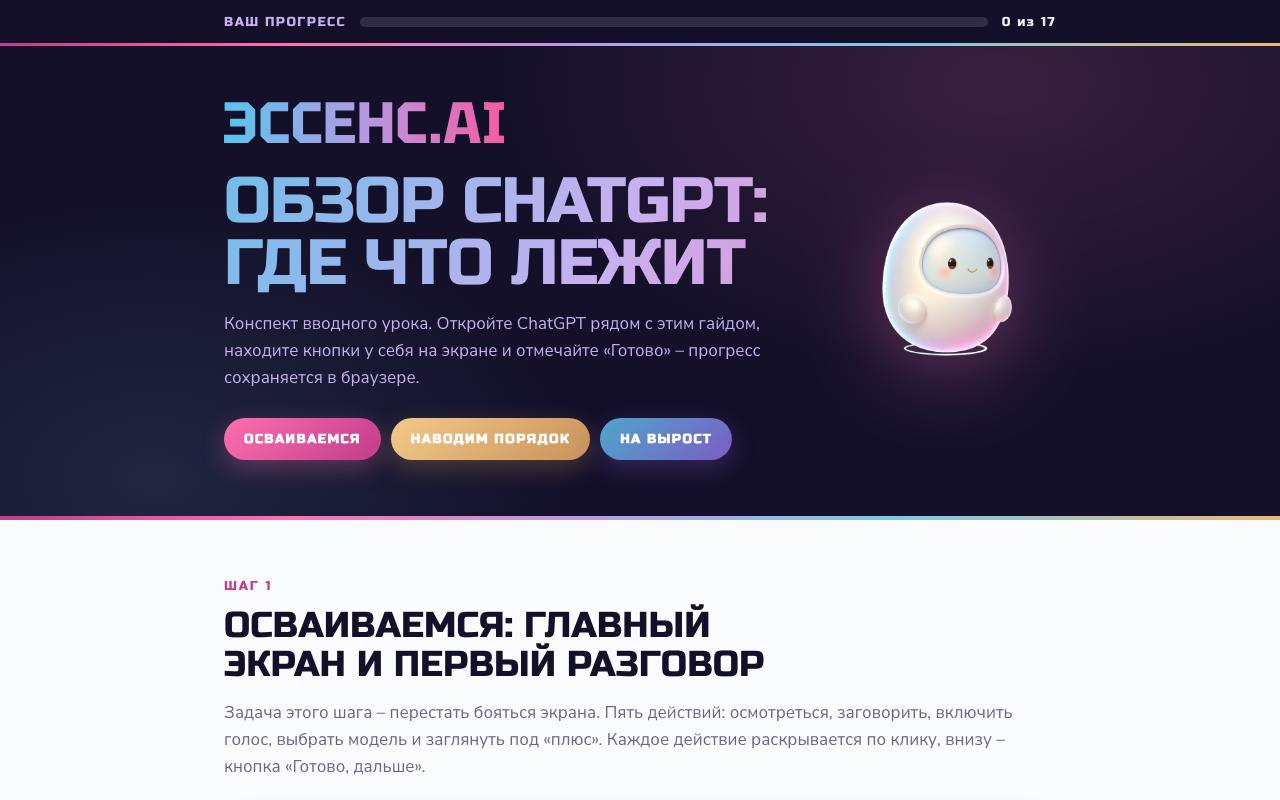
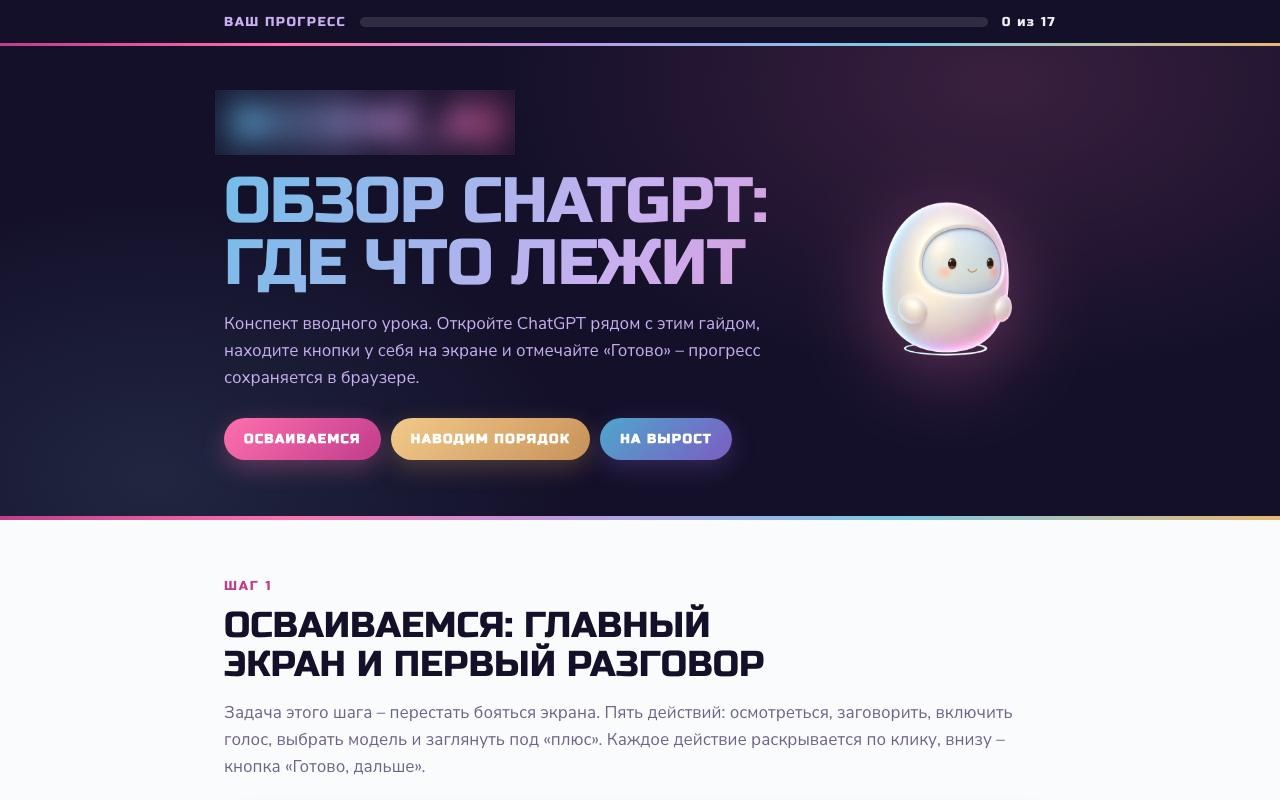
Бонус «Интерактивные материалы»: клиентские примеры с размытыми именами, FitStars первыми (08.10)

Changed region(s): [[0.1562, 0.0938, 0.4062, 0.2188]]

diff --git a/modul3/bonus-interaktiv/index.html b/modul3/bonus-interaktiv/index.html
@@ -265,9 +265,11 @@ button{font:inherit;color:inherit;background:none;border:0;cursor:pointer}
   </ul>
 
   <p class="plate">Как это выглядит у меня</p>
-  <div class="shots">
+  <div class="shots two">
     <figure class="shot"><img src="assets/konspekt.jpg" alt="Конспект урока «Свой голос» курса «Нейро-архитектор»: заголовок урока и блок «Главное из урока» с пунктами по номерам" loading="lazy">
       <figcaption><b>Конспект урока «Свой голос», курс «Нейро-архитектор» (FitStars).</b> Главное из урока, блоки по темам, промпты с кнопкой «Скопировать» и кнопка в инструкцию к практике. <a href="https://aiforlife.ru/ii-course/modul2/urok2/" target="_blank" rel="noopener">Открыть пример ↗</a></figcaption></figure>
+    <figure class="shot"><img src="assets/konspekt-ki.jpg" alt="Конспект дня клиентского курса: тёмная страница с вкладками «Теория», «Практика», «Самоанализ»" loading="lazy">
+      <figcaption><b>Конспект дня клиентского курса по языку тела.</b> Название скрыто. Материал дня разложен по вкладкам «Теория / Практика / Самоанализ», а в самоанализе есть поля для ответов и кнопка «Скопировать ответы».</figcaption></figure>
   </div>
 
   <p class="plate">Что внутри хорошего конспекта</p>
@@ -332,6 +334,8 @@ button{font:inherit;color:inherit;background:none;border:0;cursor:pointer}
   <div class="shots two">
     <figure class="shot"><img src="assets/gaid-registraciya.jpg" alt="Гайд «Старт работы в ChatGPT» для участников курса FitStars: регистрация, оплата, установка" loading="lazy">
       <figcaption><b>Гайд «Старт работы в ChatGPT».</b> Проект FitStars: регистрация, оплата и установка на все устройства. Открываете действие, выполняете его и отмечаете «Готово» – прогресс сохраняется в браузере. <a href="https://aiforlife.ru/praktikum-ii/registraciya/" target="_blank" rel="noopener">Открыть пример ↗</a></figcaption></figure>
+    <figure class="shot"><img src="assets/gaid.jpg" alt="Гайд «Обзор ChatGPT: где что лежит» для клиентской школы: шкала прогресса и кнопки разделов" loading="lazy">
+      <figcaption><b>Гайд «Обзор ChatGPT: где что лежит».</b> Клиентский проект, название скрыто. Человек открывает ChatGPT рядом с гайдом, проходит шаги и нажимает «Готово».</figcaption></figure>
     <figure class="shot"><img src="assets/gaid-metodolog.jpg" alt="Гайд «Как установить ИИ-методолога за 10 минут»: заголовок и выбор из 3 платформ" loading="lazy">
       <figcaption><b>Как установить ИИ-методолога за 10 минут.</b> 3 платформы на выбор – Claude, ChatGPT, Gemini – и шаги по номерам под каждую.</figcaption></figure>
   </div>
@@ -527,6 +531,12 @@ button{font:inherit;color:inherit;background:none;border:0;cursor:pointer}
     <li>Мама-блогер выпускает первую электронную книгу из своих лучших постов, без верстальщика и типографии.</li>
   </ul>
 
+  <p class="plate">Как это выглядит у меня</p>
+  <div class="shots">
+    <figure class="shot"><img src="assets/kniga.jpg" alt="Интерактивная книга-листалка: обложка, кнопка «Оглавление», номер страницы 1 из 389" loading="lazy">
+      <figcaption><b>Книга «Управляемо &amp; предсказуемо».</b> Клиентский проект, имя автора скрыто. Листалка на 389 страниц: её листают как бумажную, есть оглавление и закладка, а в практиках – поля для ответов и рабочий лист к ним.</figcaption></figure>
+  </div>
+
   <p class="plate">Что внутри хорошей книги</p>
   <ol class="inside">
     <li><b>Оглавление.</b> Части и главы с переходом к любой одним нажатием; закрытые части – с замком, если вы открываете их постепенно.</li>
@@ -590,6 +600,8 @@ button{font:inherit;color:inherit;background:none;border:0;cursor:pointer}
   <div class="shots">
     <figure class="shot"><img src="assets/slaidy-praktikum.jpg" alt="Слайды практикума FitStars «ИИ-помощник в вашем деле»" loading="lazy">
       <figcaption><b>Слайды практикума «ИИ-помощник в вашем деле».</b> Проект FitStars: 64 слайда по ссылке – листаются стрелками, открываются на полный экран, внизу счётчик слайдов. <a href="https://aiforlife.ru/praktikum-ii/slides/" target="_blank" rel="noopener">Открыть пример ↗</a></figcaption></figure>
+    <figure class="shot"><img src="assets/slaidy.jpg" alt="Титульный слайд «Практикум по вайбкодингу» с колонкой миниатюр слайдов слева" loading="lazy">
+      <figcaption><b>Слайды воркшопа «Практикум по вайбкодингу».</b> Клиентский проект, название скрыто. Слева – миниатюры всех слайдов, слайды открываются на полный экран.</figcaption></figure>
   </div>
 
   <p class="plate">Что внутри хорошей презентации</p>
@@ -653,7 +665,7 @@ button{font:inherit;color:inherit;background:none;border:0;cursor:pointer}
   <p class="plate">Как это выглядит у меня</p>
   <div class="shots">
     <figure class="shot"><img src="assets/kviz.jpg" alt="Квиз тест-драйва «Блогер с нуля»: вопрос «Что ты сейчас делаешь в соцсетях?» с 4 вариантами ответа и шкалой прогресса" loading="lazy">
-      <figcaption><b>Тест-драйв «Блогер с нуля» (FitStars), день 1.</b> «Что ты сейчас делаешь в соцсетях?» – вопрос за вопросом, со шкалой прогресса сверху, а в конце – твой профиль и задание дня.</figcaption></figure>
+      <figcaption><b>Тест-драйв «Блогер с нуля» (FitStars), день 1.</b> «Что ты сейчас делаешь в соцсетях?» – вопрос за вопросом, со шкалой прогресса сверху, а в конце – твой профиль и задание дня. <a href="https://bloger-s-nulya.github.io/test-drive/quiz.html" target="_blank" rel="noopener">Открыть пример ↗</a></figcaption></figure>
   </div>
 
   <p class="plate">Попробуйте прямо здесь</p>
@@ -785,6 +797,12 @@ button{font:inherit;color:inherit;background:none;border:0;cursor:pointer}
     <li>Бухгалтер, который учит предпринимателей, делает тест по налоговым срокам – с пояснением к каждой ошибке.</li>
   </ul>
 
+  <p class="plate">Как это выглядит у меня</p>
+  <div class="shots">
+    <figure class="shot"><img src="assets/test.jpg" alt="Итоговый тест клиентского курса: 30 вопросов по 5 модулям, шкала прогресса 0 из 30, первый вопрос модуля 1" loading="lazy">
+      <figcaption><b>Итоговый тест клиентского курса по психологии.</b> Название курса скрыто. 30 вопросов по 5 модулям, в конце – балл по каждому модулю, разбор ошибок, сохранение в PDF и строка с результатом для куратора.</figcaption></figure>
+  </div>
+
   <p class="plate">Попробуйте прямо здесь</p>
   <style>
     #demo-test [hidden]{display:none !important}
@@ -908,6 +926,8 @@ button{font:inherit;color:inherit;background:none;border:0;cursor:pointer}
   <div class="shots">
     <figure class="shot"><img src="assets/kartochki.jpg" alt="Ежедневная тренировка «Блогер с нуля»: вопрос «Что тебе сейчас важно?» и 2 карточки на выбор, сверху серия дней" loading="lazy">
       <figcaption><b>Ежедневная тренировка «Блогер с нуля».</b> Проект FitStars. Выбираешь карточку по тому, что тебе сейчас важно, – «Хочу действовать» или «Нужна поддержка», – и получаешь задание дня. Сверху видна серия дней подряд.</figcaption></figure>
+    <figure class="shot"><img src="assets/igra.jpg" alt="Тренинг по публичным выступлениям: карточка-задание №13, кнопки «Следующая карточка», «Запустить 2 минуты», «Сбросить», счётчик «Осталось 24 из 26»" loading="lazy">
+      <figcaption><b>Тренинг по публичным выступлениям.</b> Случайная карточка-задание, таймер на 2 минуты и счётчик «осталось 24 из 26». Выпавшие карточки отмечаются внизу и не повторяются.</figcaption></figure>
     <figure class="shot"><img src="assets/strahi.jpg" alt="Стена страхов «Блогер с нуля»: карточки со страхами, счётчик «Пробито страхов: 0 из 6»" loading="lazy">
       <figcaption><b>Стена страхов «Блогер с нуля».</b> Проект FitStars. Нажимаешь на страх – видишь, что за ним стоит и что с этим делать. Счётчик «Пробито страхов» показывает, сколько уже открыто.</figcaption></figure>
   </div>
@@ -1026,6 +1046,12 @@ button{font:inherit;color:inherit;background:none;border:0;cursor:pointer}
     <li>Фитнес-тренер ведёт по технике упражнения: шаг – действие – вопрос к себе «где чувствуете напряжение?».</li>
     <li>Эксперт по ИИ даёт ученикам тренажёр «Найди слабое место в промпте» – как в мини-примере ниже.</li>
   </ul>
+
+  <p class="plate">Как это выглядит у меня</p>
+  <div class="shots">
+    <figure class="shot"><img src="assets/trenazher.jpg" alt="Тренажёр «Опора и заземление»: шаг 1 из 13, вопрос «Как именно вы стоите или сидите в эту секунду?»" loading="lazy">
+      <figcaption><b>Тренажёр «Опора и заземление».</b> Клиентский курс, название скрыто. Упражнение по шагам с прогрессом сверху: сначала вопрос к себе «Как именно вы стоите или сидите в эту секунду?», потом объяснение и кнопка к следующему шагу.</figcaption></figure>
+  </div>
 
   <p class="plate">Попробуйте прямо здесь</p>
   <style>
@@ -1159,6 +1185,12 @@ button{font:inherit;color:inherit;background:none;border:0;cursor:pointer}
     <li>Бухгалтер рисует путь документа от счёта до отчёта: кто что делает на каждом шаге.</li>
   </ul>
 
+  <p class="plate">Как это выглядит у меня</p>
+  <div class="shots">
+    <figure class="shot"><img src="assets/shema.jpg" alt="Схема «Три мозга: как рождается решение»: 3 зоны мозга и подсказка «Наведите на зону мозга»" loading="lazy">
+      <figcaption><b>Схема «Три мозга: как рождается решение».</b> Клиентский курс по нейропсихологии. Наводите на зону мозга или касаетесь её – и видите, за что она отвечает. Главная мысль схемы написана под ней и видна без нажатий.</figcaption></figure>
+  </div>
+
   <p class="plate">Попробуйте прямо здесь</p>
   <style>
     #demo-shema .sh-hint{font-size:11px;font-weight:800;letter-spacing:.18em;text-transform:uppercase;color:var(--muted);margin-bottom:10px}
@@ -1269,9 +1301,11 @@ button{font:inherit;color:inherit;background:none;border:0;cursor:pointer}
   </ul>
 
   <p class="plate">Как это выглядит у меня</p>
-  <div class="shots">
+  <div class="shots two">
     <figure class="shot"><img src="assets/cheklist.jpg" alt="Чек-лист «Блогер с нуля»: настройка канала в MAX по шагам для телефона и компьютера" loading="lazy">
       <figcaption><b>Чек-лист «Блогер с нуля».</b> Проект FitStars: настройка канала в MAX по шагам, отдельно для телефона и для компьютера. Каждый шаг отмечается, и видно, сколько ещё осталось.</figcaption></figure>
+    <figure class="shot"><img src="assets/lid-magnit.jpg" alt="Чек-лист-лид-магнит «7 ошибок в языке тела»" loading="lazy">
+      <figcaption><b>Чек-лист-лид-магнит «7 ошибок в языке тела».</b> Клиентский проект, имя эксперта скрыто: вы отмечаете, какие ошибки встречаются у вас, – и в конце получаете персональные рекомендации.</figcaption></figure>
   </div>
 
   <p class="plate">Попробуйте прямо здесь</p>
@@ -1489,6 +1523,12 @@ button{font:inherit;color:inherit;background:none;border:0;cursor:pointer}
     <li>HR готовит программу первой недели для нового сотрудника: встречи, обучение, ссылки на документы.</li>
     <li>Мама-блогер отправляет родителям группы одной ссылкой план детского праздника или семейных выходных.</li>
   </ul>
+
+  <p class="plate">Как это выглядит у меня</p>
+  <div class="shots">
+    <figure class="shot"><img src="assets/raspisanie.jpg" alt="Рабочая страница команды тренеров: вкладки «Календарь», «Стартапы», «Критичные зоны»" loading="lazy">
+      <figcaption><b>Рабочая страница команды тренеров.</b> Сделана для акселератора стартапов: календарь программы по часам, а на соседних вкладках – стартапы и разборы выступлений. Нажимаете на вкладку и видите только нужное.</figcaption></figure>
+  </div>
 
   <p class="plate">Попробуйте прямо здесь</p>
   <style>
@@ -1821,9 +1861,11 @@ button{font:inherit;color:inherit;background:none;border:0;cursor:pointer}
   </ul>
 
   <p class="plate">Как это выглядит у меня</p>
-  <div class="shots">
+  <div class="shots two">
     <figure class="shot"><img src="assets/kabinet.jpg" alt="Кабинет клиента нутрициолога: слева история сессий по датам, справа прогресс по весу и дневнику питания, ниже конспект встречи" loading="lazy">
       <figcaption><b>«Итоги встреч» для нутрициолога.</b> Моё демо, все данные вымышленные. Кабинет клиента: слева история сессий, сверху прогресс по цели и по дневнику питания в полосках, ниже конспект встречи и задачи.</figcaption></figure>
+    <figure class="shot"><img src="assets/platforma.jpg" alt="Дашборд потока на платформе онлайн-курса: кольца прогресса, фраза недели и цель на поток" loading="lazy">
+      <figcaption><b>Платформа онлайн-курса тренировок.</b> Клиентский проект, название скрыто. Дашборд потока: тренировки недели и весь поток в кольцах прогресса, фраза недели и цель, которую ученица поставила себе на поток.</figcaption></figure>
   </div>
 
   <p class="plate">Попробуйте прямо здесь</p>
@@ -1953,9 +1995,11 @@ button{font:inherit;color:inherit;background:none;border:0;cursor:pointer}
   </ul>
 
   <p class="plate">Как это выглядит у меня</p>
-  <div class="shots">
+  <div class="shots two">
     <figure class="shot"><img src="assets/lending.jpg" alt="Первый экран лендинга курса «Нейро-архитектор»: заголовок, дата старта и кнопка «Забронировать место»" loading="lazy">
       <figcaption><b>Лендинг курса «Нейро-архитектор».</b> Проект FitStars: кнопка «Забронировать место» стоит уже в шапке, ниже – тарифы и вопросы, ответ на которые раскрывается по клику. Возможно, вы пришли на курс как раз с этой страницы. <a href="https://aiforlife.ru/ii-course/" target="_blank" rel="noopener">Открыть пример ↗</a></figcaption></figure>
+    <figure class="shot"><img src="assets/lending-kulich.jpg" alt="Первый экран лендинга психолога: меню, переключатель языка, заголовок и кнопка «Написать мне»" loading="lazy">
+      <figcaption><b>Лендинг психолога.</b> Клиентский проект, имя скрыто. Кто я, как работаю, форматы и кнопка «Написать». В шапке – меню по разделам и переключатель языка RU/IT.</figcaption></figure>
   </div>
 
   <p class="plate">Что внутри хорошего лендинга</p>
